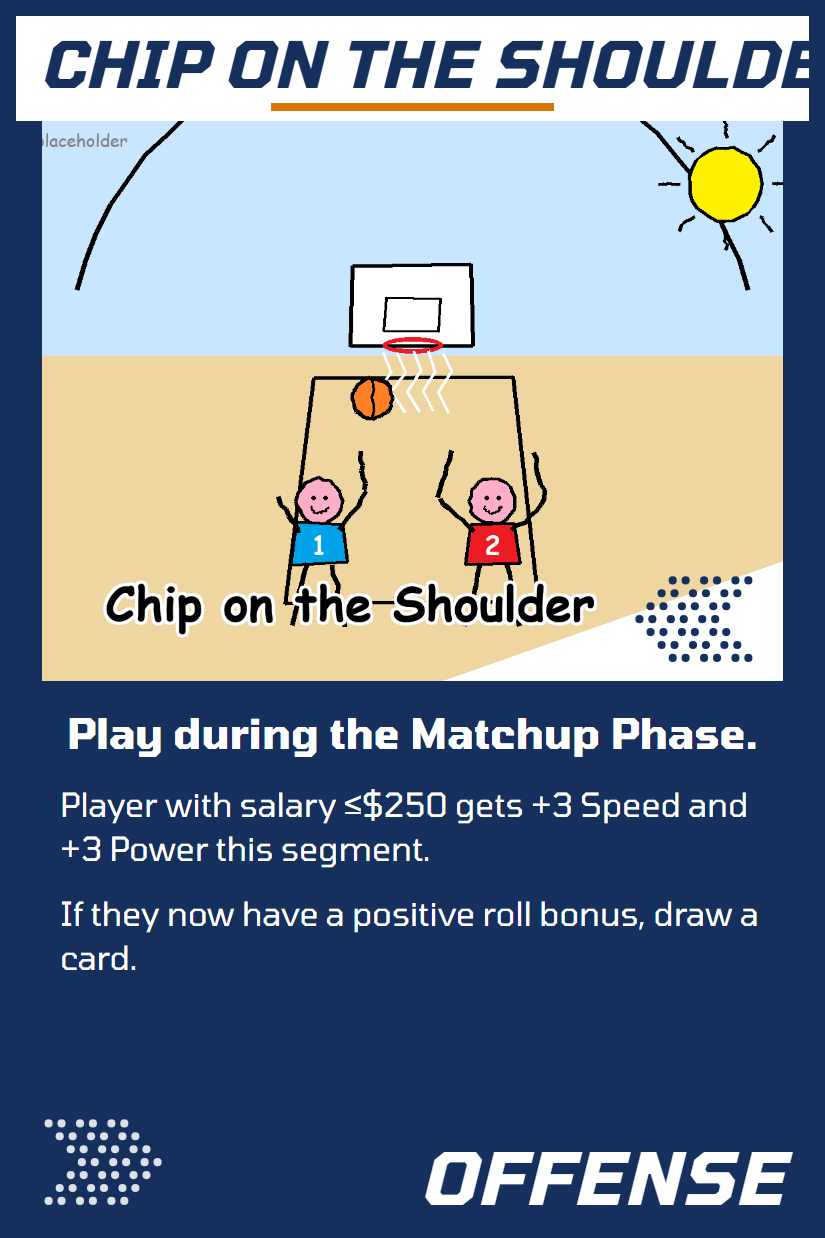
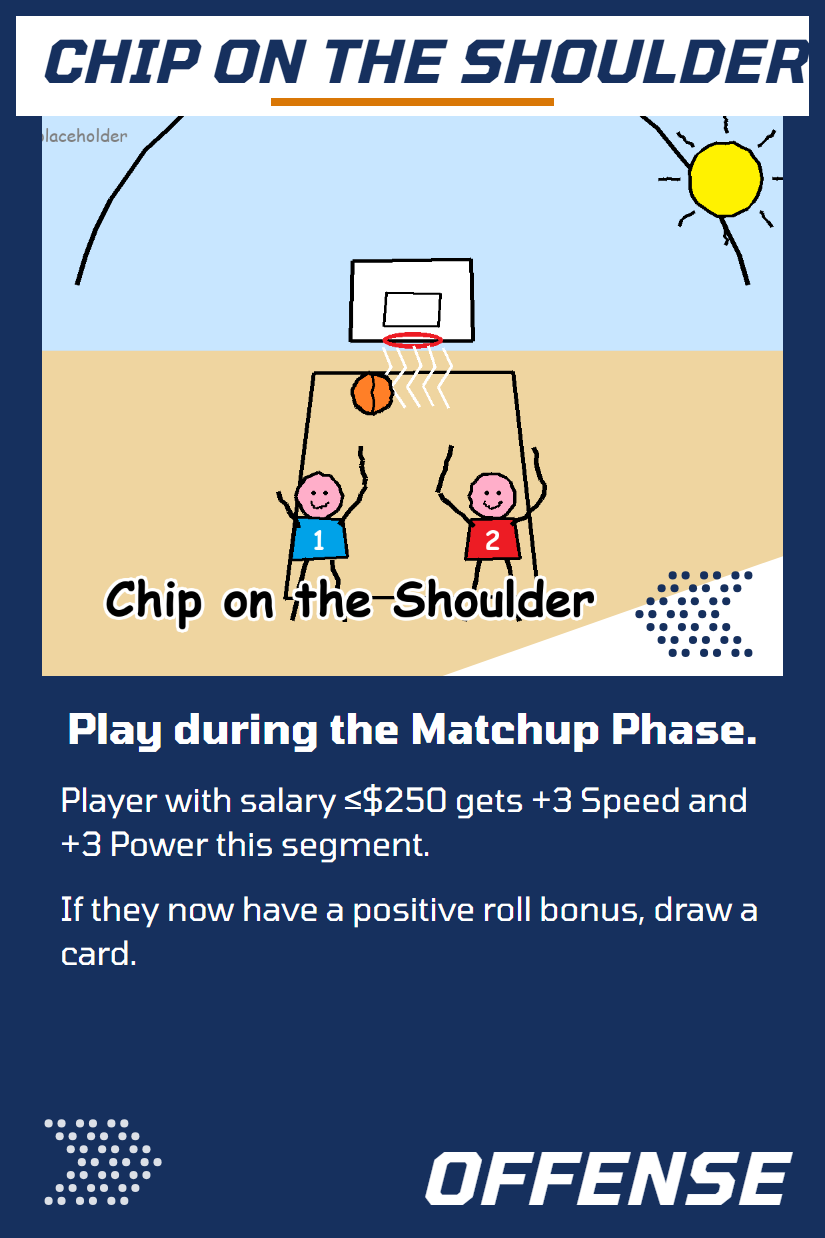
fix(cards): strat titles fit the face, and the sign-up card turns over first
- StratTemplate: the title was a fixed 64px and fourteen names ran off
  the card ("Offensive Board Mastery" measured 996px in a 745px header).
  The size is now fitted from a real measurement of the text in the
  face's font when a canvas is available, with a calibrated estimate as
  the fallback; floor 36px. All 87 faces and thumbs re-exported.
- PackOpening: a promo card (Unethical Hoops) is revealed first in its
  pack, ahead of the strats-then-players order.

diff --git a/src/cards/StratTemplate.jsx b/src/cards/StratTemplate.jsx
@@ -38,6 +38,62 @@ export function isCrunchFace(strat) {
   return CRUNCH_CARDS.includes(strat?.id);
 }
 
+/**
+ * THE TITLE FITS THE HEADER. The face is 825 wide with a 16px border and
+ * 24px of header padding a side, so a title has ~745px; at the 64px it was
+ * always set in, "OFFENSIVE BOARD MASTERY" and a dozen others ran off the
+ * card (the user, 2026-09-08: "a lot of strategy names are bleeding off").
+ * The advance is estimated per character for the heavy italic uppercase —
+ * conservative, so a name that fits by the estimate fits on the face — and
+ * the size floors at 36px, which is still the biggest thing on the card.
+ */
+export const TITLE_MAX_PX = 64;
+export const TITLE_MIN_PX = 36;
+const TITLE_AVAILABLE_PX = 745;
+const TITLE_LETTER_SPACING = 1;
+const TITLE_FONT = 'italic 800 64px Tomorrow, "Arial Narrow", Arial, sans-serif';
+
+/**
+ * Per-character width in ems for Tomorrow 800 italic, uppercase — the
+ * fallback where no canvas exists (tests, the server). Calibrated against
+ * the real font on 2026-09-08: the measured "OFFENSIVE BOARD MASTERY" is
+ * 996px at 64px, and this puts it at 1,002.
+ */
+function titleAdvanceUnits(name) {
+  let units = 0;
+  for (const ch of String(name ?? '').toUpperCase()) {
+    if (ch === ' ') units += 0.3;
+    else if ('IJL1!'.includes(ch)) units += 0.37;
+    else if ('MW'.includes(ch)) units += 0.9;
+    else if (ch === '&') units += 0.76;
+    else if (/[A-Z0-9]/.test(ch)) units += 0.7;
+    else units += 0.44;   // hyphens, apostrophes, punctuation
+  }
+  return units;
+}
+
+let measureCtx = null;
+/** The title's width at 64px, measured in the real font when the page has it. */
+function titleWidthAt64(name) {
+  const text = String(name ?? '').toUpperCase();
+  try {
+    if (typeof document !== 'undefined' && document.fonts?.check?.(TITLE_FONT)) {
+      if (!measureCtx) measureCtx = document.createElement('canvas').getContext('2d');
+      measureCtx.font = TITLE_FONT;
+      if ('letterSpacing' in measureCtx) measureCtx.letterSpacing = `${TITLE_LETTER_SPACING}px`;
+      const w = measureCtx.measureText(text).width;
+      if (w > 0) return w;
+    }
+  } catch { /* fall through to the estimate */ }
+  return titleAdvanceUnits(name) * 64 + text.length * TITLE_LETTER_SPACING;
+}
+
+export function titleFontSize(name) {
+  const w64 = titleWidthAt64(name);
+  const fitted = 64 * TITLE_AVAILABLE_PX / Math.max(1, w64);
+  return Math.floor(Math.min(TITLE_MAX_PX, Math.max(TITLE_MIN_PX, fitted)));
+}
+
 export function phaseLine(phase) {
   return PHASE_LINES[phase] ?? 'Play during the game.';
 }
@@ -130,7 +186,7 @@ export default function StratTemplate({
       style={{ width: STRAT_CARD_WIDTH, height: STRAT_CARD_HEIGHT }}
     >
       <div className={styles.header}>
-        <div className={styles.title}>{s.name}</div>
+        <div className={styles.title} style={{ fontSize: titleFontSize(s.name) }}>{s.name}</div>
         <div className={styles.titleRule} style={{ background: s.color ?? '#16305e' }} />
       </div>
 

diff --git a/src/components/PackOpening.jsx b/src/components/PackOpening.jsx
@@ -136,6 +136,11 @@ export default function PackOpening({ cards, coins = null, onDone, onSaveRest = 
       const pa = a.packIndex ?? 0;
       const pb = b.packIndex ?? 0;
       if (pa !== pb) return pa - pb;
+      // THE SIGN-UP CARD TURNS OVER FIRST. Unethical Hoops is the gift the
+      // welcome pop-up promised; it opens the starter (the user, 2026-09-08).
+      const promoA = a.type === 'strat' && Boolean(a.card?.promo);
+      const promoB = b.type === 'strat' && Boolean(b.card?.promo);
+      if (promoA !== promoB) return promoA ? -1 : 1;
       if (a.type !== b.type) return a.type === 'strat' ? -1 : 1;
       return revealRank(a.rarity) - revealRank(b.rarity);
     });
